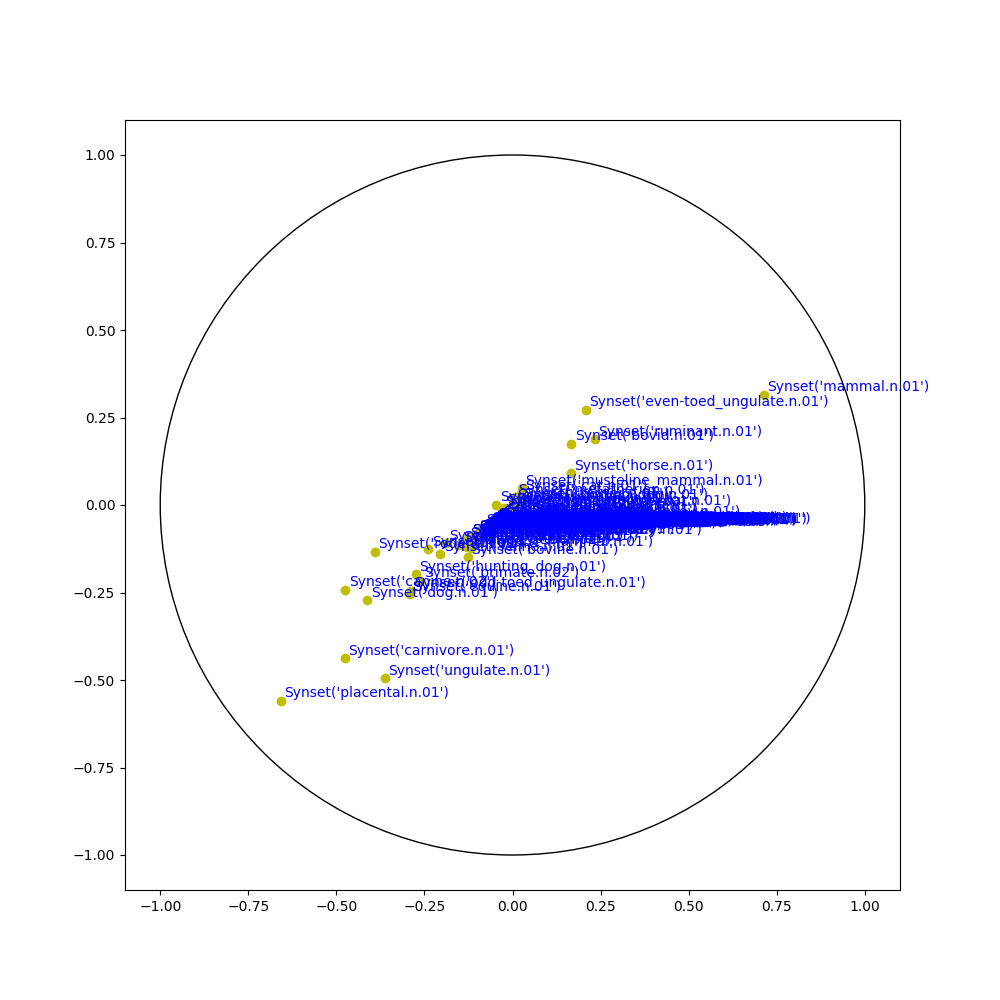
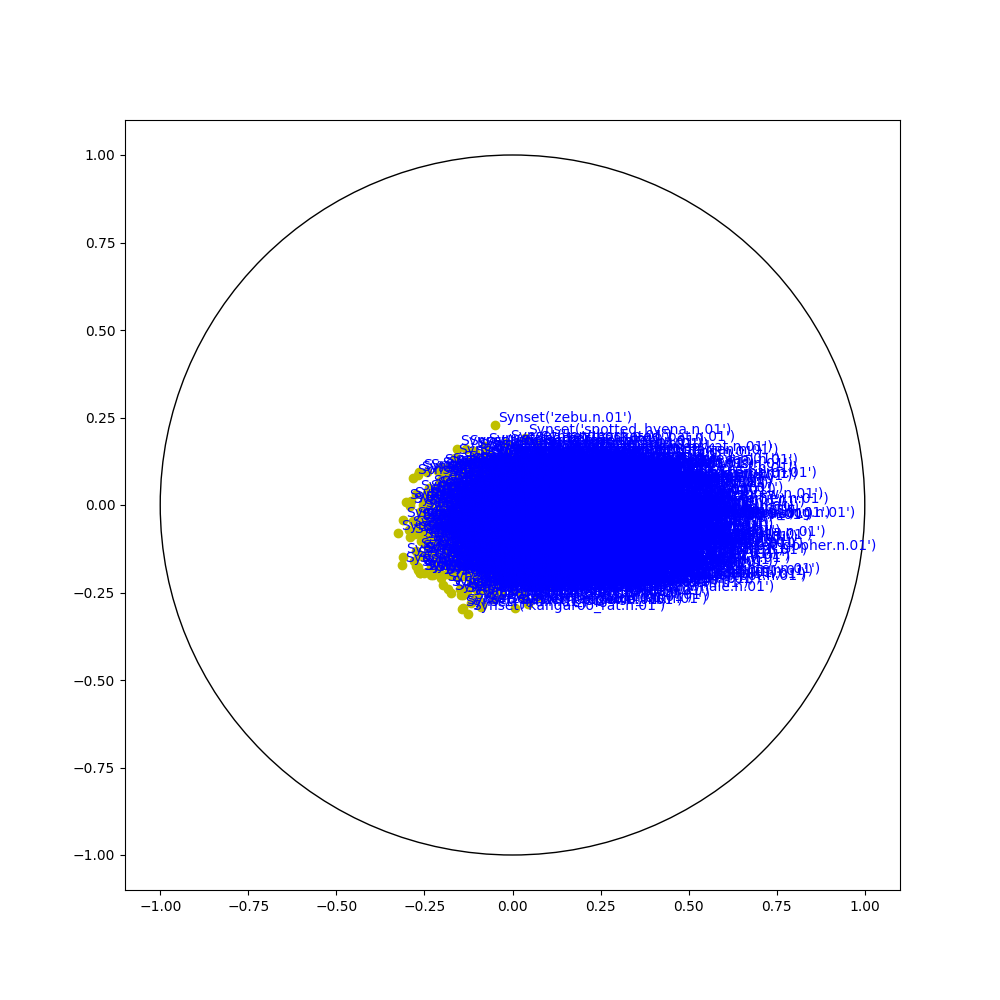
I wanna see

Changed region(s): [[0.341, 0.372, 0.93, 0.62], [0.279, 0.651, 0.558, 0.713]]

diff --git a/Poincare_disk.py b/Poincare_disk.py
@@ -147,7 +147,7 @@ for epoch in range(EPOCHS):
                 NEG_SAMPLES.append(pickme)
         NEG_SAMPLES = torch.from_numpy(np.array(NEG_SAMPLES)).cuda()
         negs = Variable(EMBEDDINGS[NEG_SAMPLES], requires_grad=True)
-        loss = torch.exp(-1 * distance(u, v)) / torch.exp(-1 * distance(u, negs)).sum()
+        loss =-torch.log(torch.exp(-1 * distance(u, v)) / torch.exp(-1 * distance(u, negs)).sum())
         loss.backward()
         if i%1000==0:
             print str(epoch)+' epoch and '+str(i)+' attempt'
